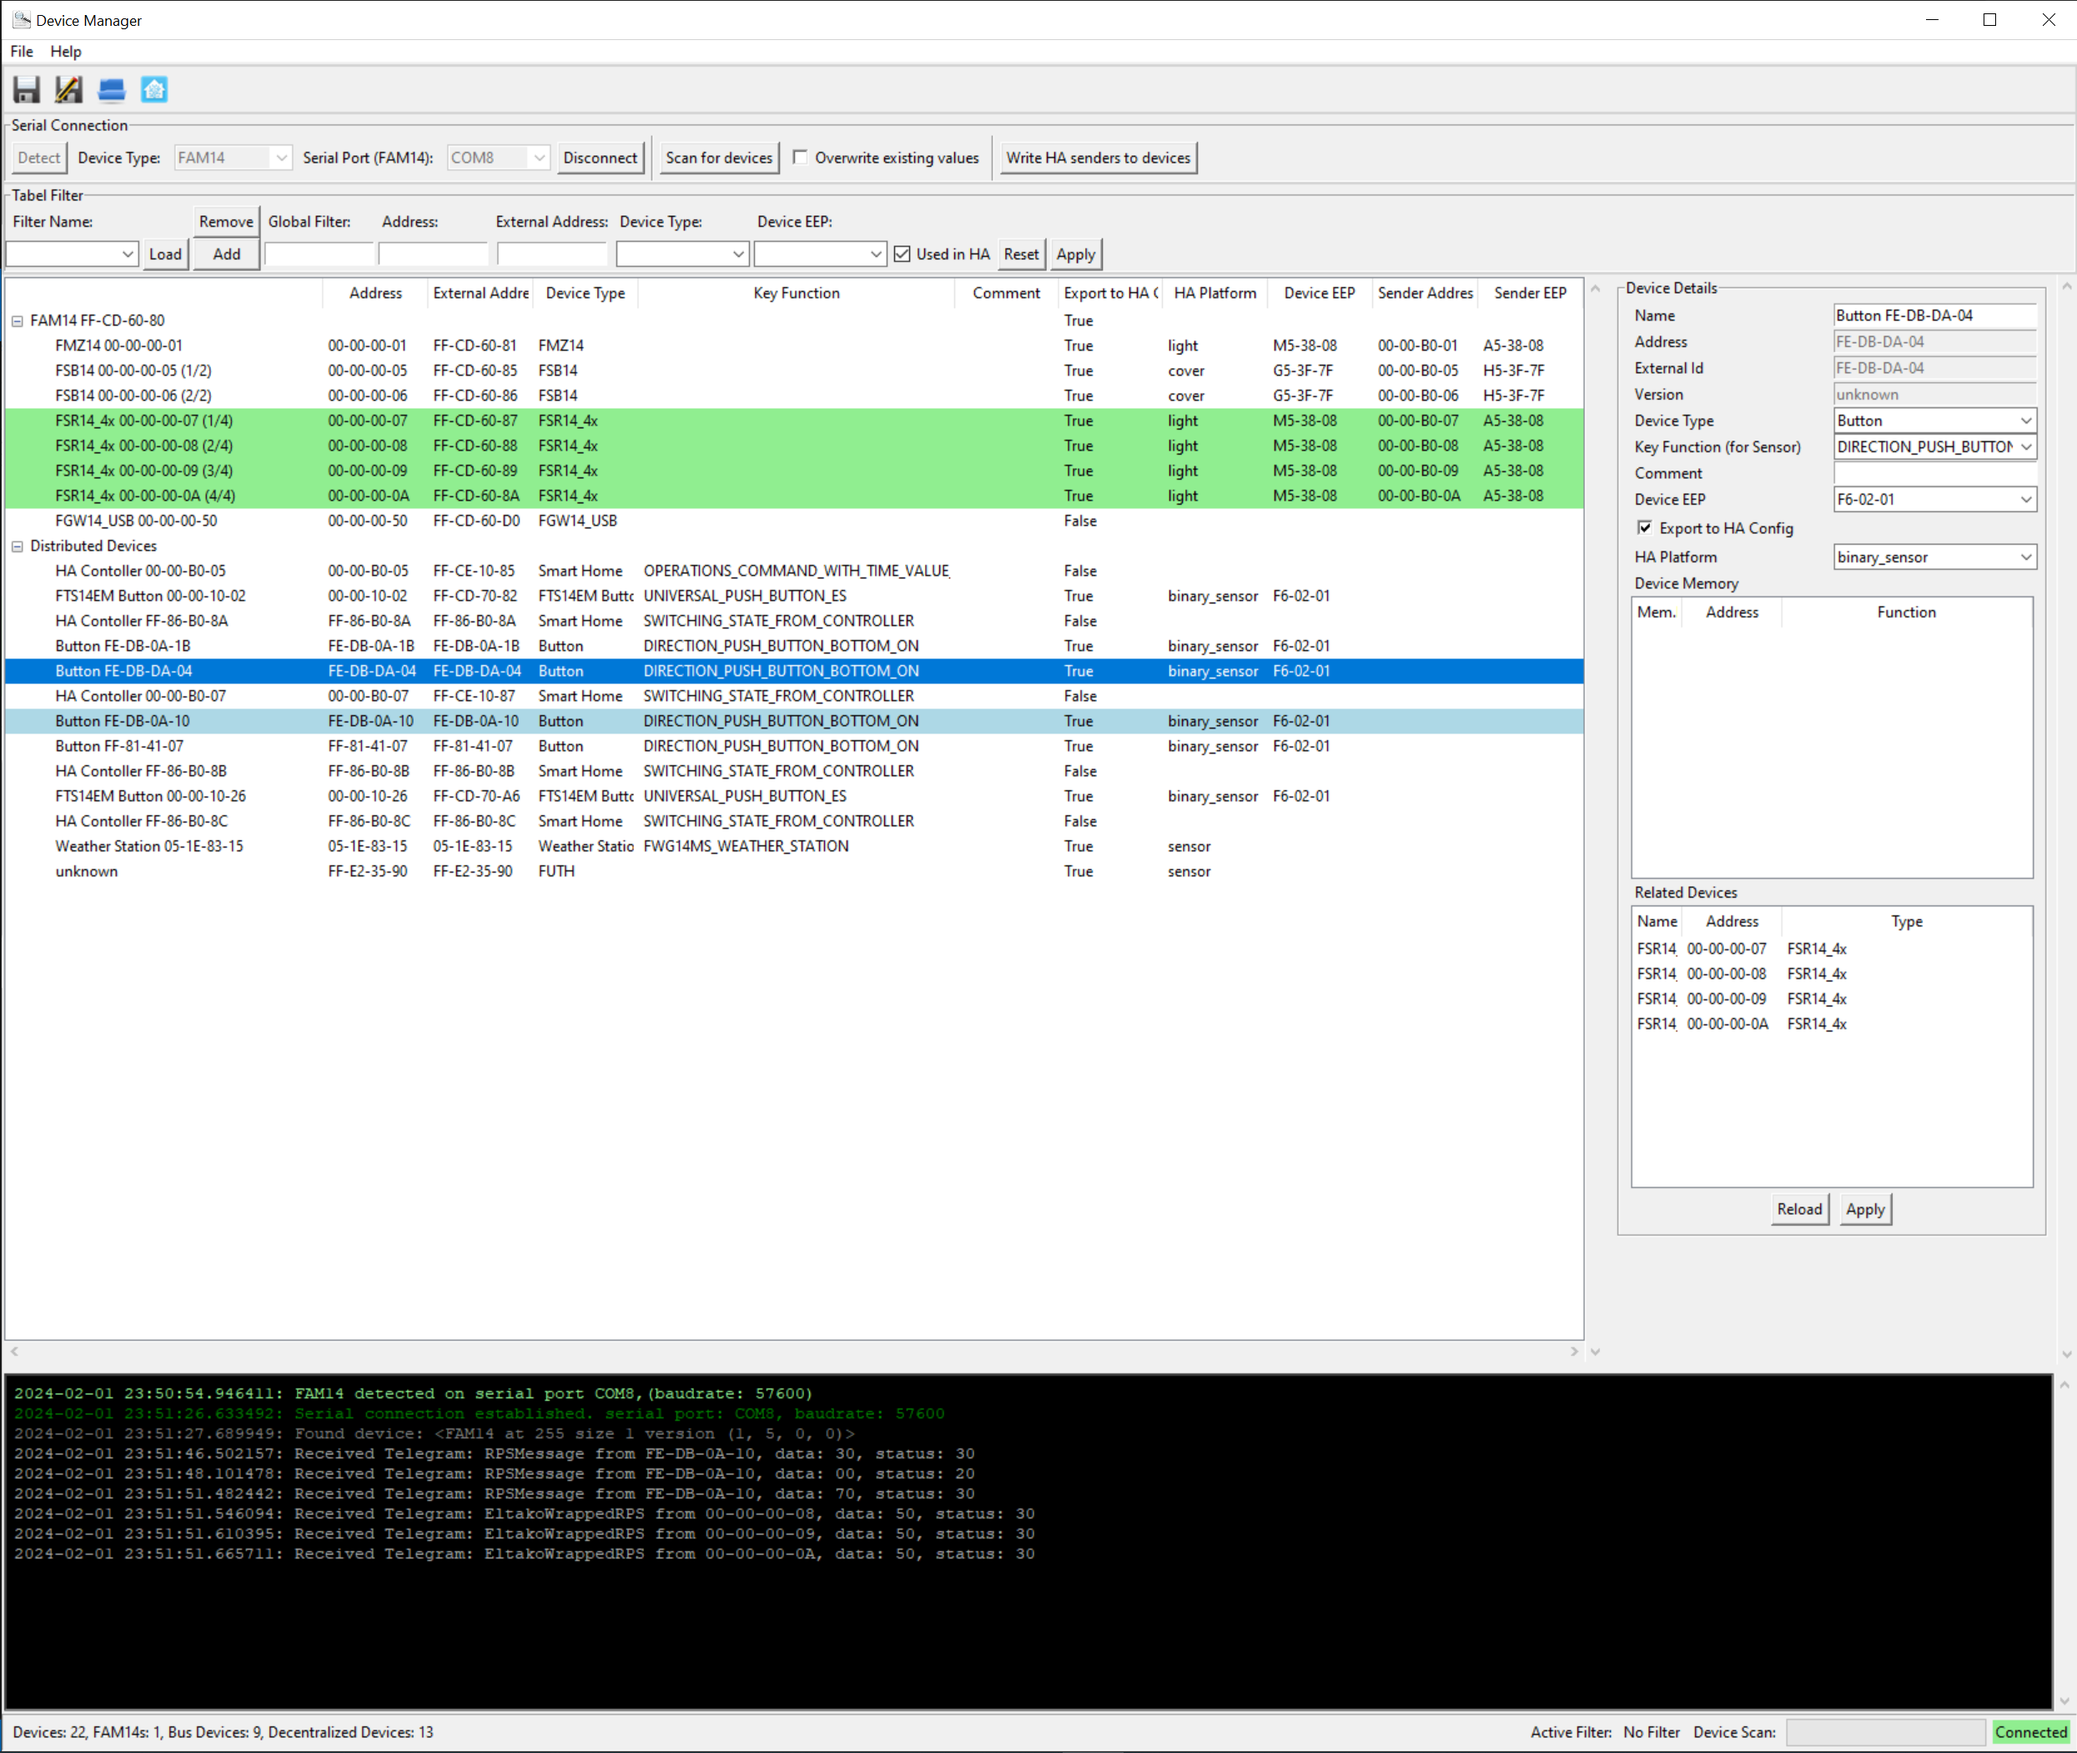
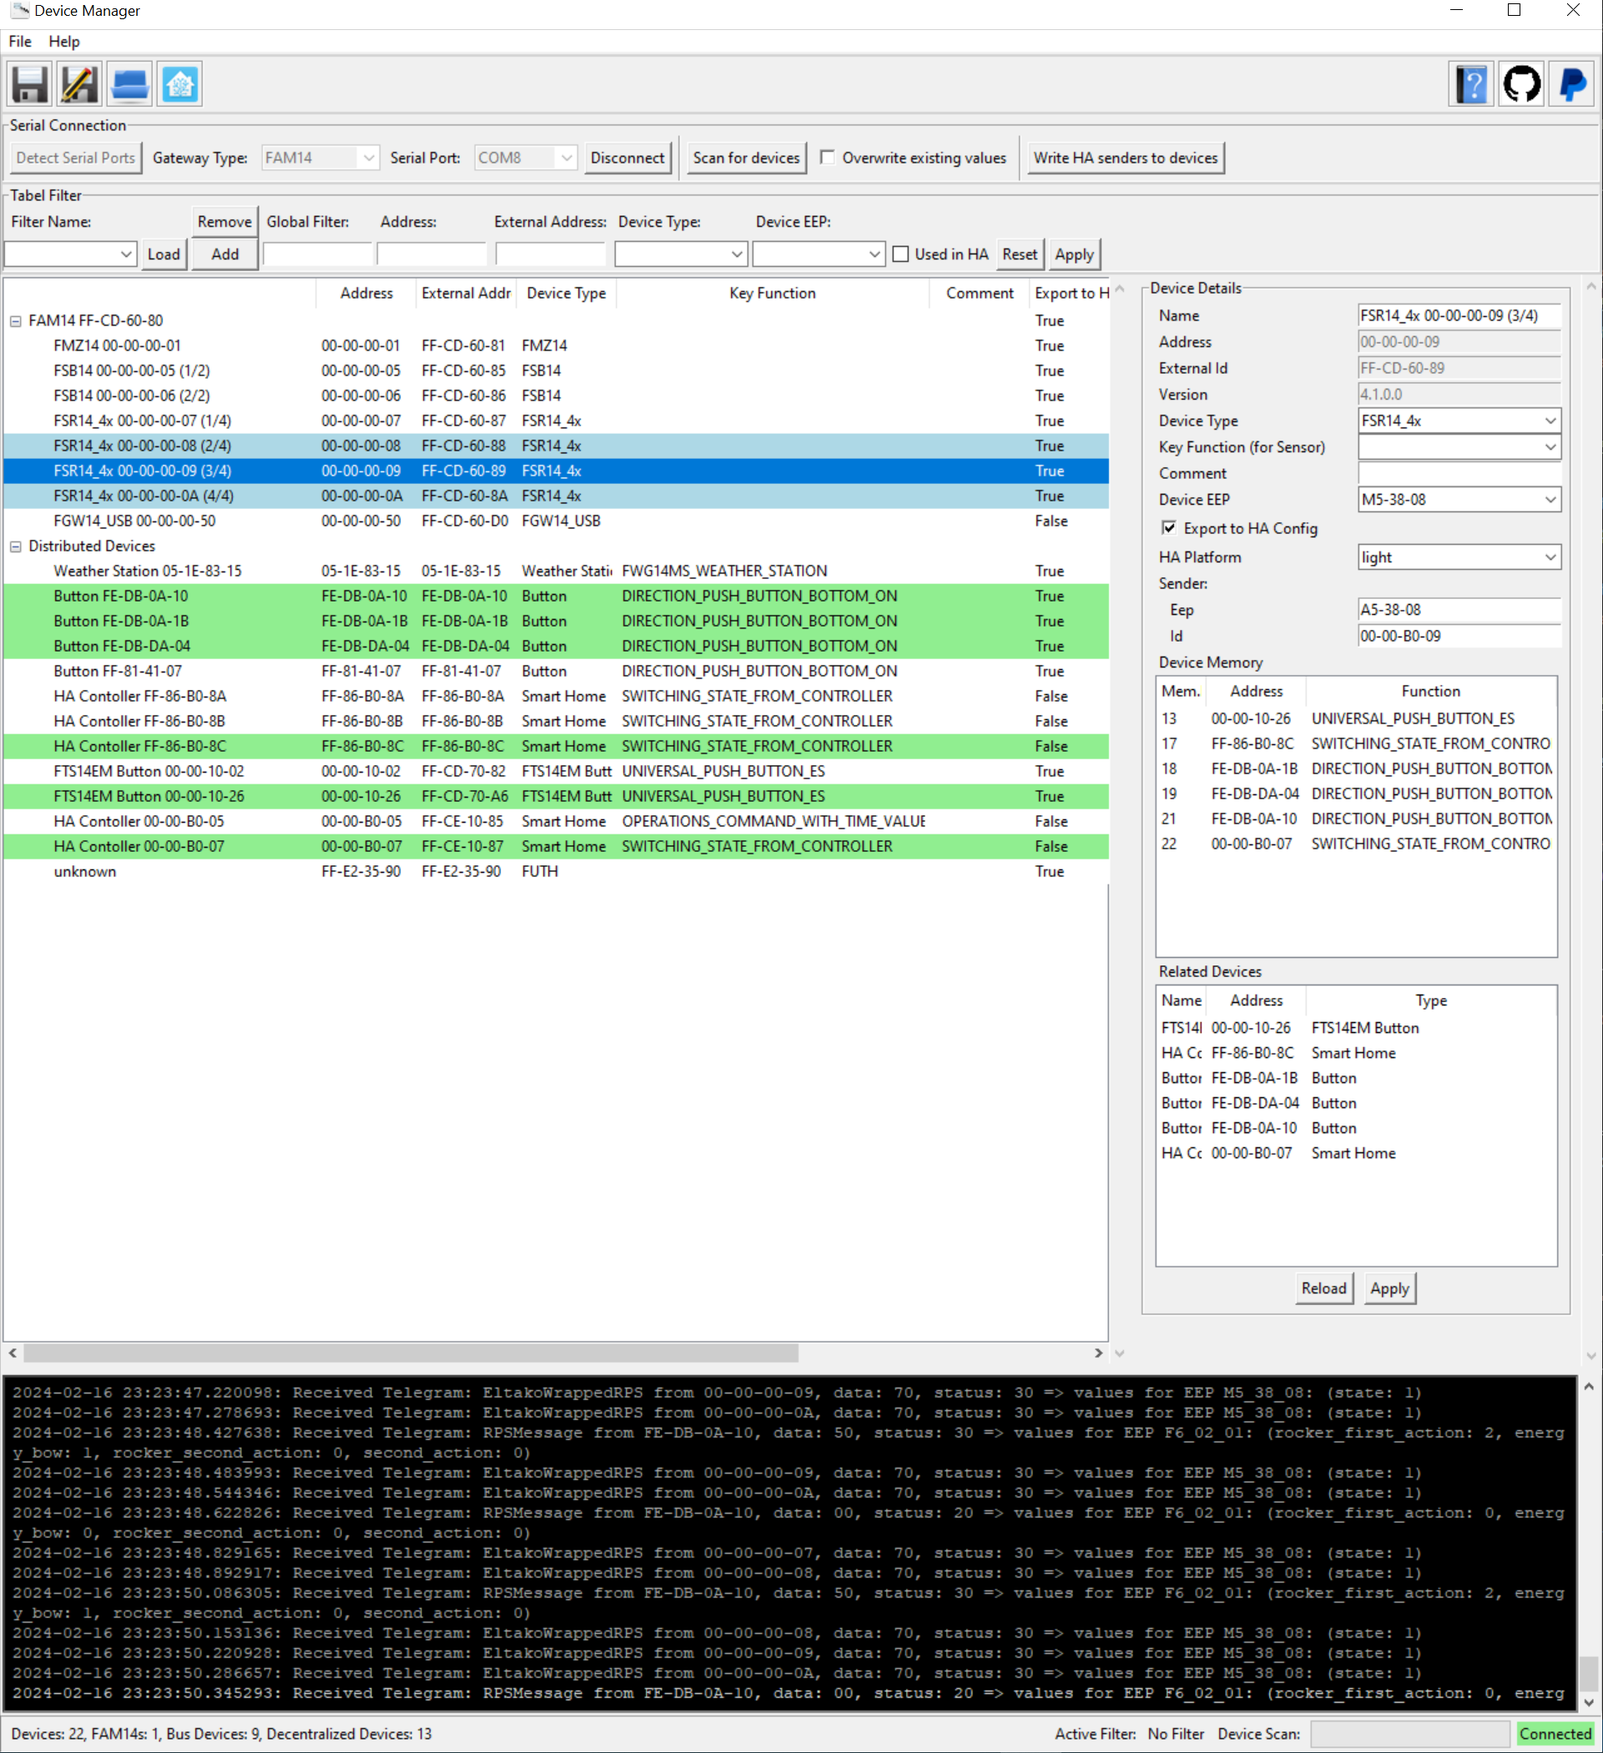
error handling added to serial communication

Changed region(s): [[0.0, 0.0, 1.0, 1.0], [0.6559, 0.0619, 0.7496, 0.0928]]

diff --git a/eo_man/view/serial_communication_bar.py b/eo_man/view/serial_communication_bar.py
@@ -2,6 +2,9 @@ import tkinter as tk
 from tkinter import *
 from tkinter import ttk
 from idlelib.tooltip import Hovertip
+import threading
+
+from eo_man import LOGGER
 
 from ..controller.app_bus import AppBus, AppBusEventType
 from ..controller.serial_controller import SerialController
@@ -18,19 +21,21 @@ class SerialConnectionBar():
         f = LabelFrame(main, text="Serial Connection", bd=1)#, relief=SUNKEN)
         f.grid(row=row, column=0, columnspan=1, sticky=W+E+N+S, pady=(0,2), padx=2)
 
-        self.b_detect = Button(f, text="Detect")
+        self.b_detect = Button(f, text="Detect Serial Ports")
         self.b_detect.pack(side=tk.LEFT, padx=(5, 5), pady=5)
         self.b_detect.config(command=self.detect_serial_ports_command)
+        Hovertip(self.b_detect,"Serial port detection is sometime unstable. Please try again if device was not detected.",300)
 
-        l = Label(f, text="Device Type: ")
+        l = Label(f, text="Gateway Type: ")
         l.pack(side=tk.LEFT, padx=(0, 5), pady=5)
 
         self.cb_device_type = ttk.Combobox(f, state="readonly", width="12") 
         self.cb_device_type.pack(side=tk.LEFT, padx=(0, 5), pady=5)
         self.cb_device_type['values'] = ['FAM14', 'FGW14-USB', 'FAM-USB']
         self.cb_device_type.set(self.cb_device_type['values'][0])
+        self.cb_device_type.bind('<<ComboboxSelected>>', self.on_device_type_changed)
 
-        l = Label(f, text="Serial Port (FAM14): ")
+        l = Label(f, text="Serial Port: ")
         l.pack(side=tk.LEFT, padx=(0, 5), pady=5)
 
         self.cb_serial_ports = ttk.Combobox(f, state="readonly", width="10") 
@@ -61,17 +66,28 @@ class SerialConnectionBar():
         self.app_bus.add_event_handler(AppBusEventType.WRITE_SENDER_IDS_TO_DEVICES_STATUS, self.device_scan_status_handler)
         self.app_bus.add_event_handler(AppBusEventType.WINDOW_LOADED, self.on_window_loaded)
         
+
+    def on_device_type_changed(self, event):
+        self.cb_serial_ports['values'] = []
+        self.cb_serial_ports.set('')
+
+        self.detect_serial_ports_command()
+
+
     def write_ha_senders_to_devices(self):
         sender_list = {}
         for dev in self.data_manager.devices.values():
             sender_list[dev.external_id] = dev.additional_fields
         self.serial_cntr.write_sender_id_to_devices(45056, sender_list)
         
+
     def on_window_loaded(self, data):
         self.detect_serial_ports_command()
 
+
     def scan_for_devices(self):
         self.serial_cntr.scan_for_devices( self.overwrite.get() )
+
 
     def device_scan_status_handler(self, status:str):
         if status == 'FINISHED':
@@ -86,17 +102,27 @@ class SerialConnectionBar():
             self.main.config(cursor="watch")    #set cursor for waiting
             self.b_sync_ha_sender.config(state=DISABLED)
 
-    def toggle_serial_connection_command(self):
-        if not self.serial_cntr.is_serial_connection_active():
-            self.b_detect.config(state=DISABLED)
-            self.b_connect.config(state=DISABLED)
-            self.b_scan.config(state=DISABLED)
-            self.serial_cntr.establish_serial_connection(self.cb_serial_ports.get(), self.cb_device_type.get())
-        else:
-            self.serial_cntr.stop_serial_connection()
 
-    def is_connected_handler(self, data:dict):
+    def toggle_serial_connection_command(self):
+        try:
+            if not self.serial_cntr.is_serial_connection_active():
+                self.b_detect.config(state=DISABLED)
+                self.b_connect.config(state=DISABLED)
+                self.b_scan.config(state=DISABLED)
+                self.serial_cntr.establish_serial_connection(self.cb_serial_ports.get(), self.cb_device_type.get())
+            else:
+                self.serial_cntr.stop_serial_connection()
+        except:
+            # reset buttons
+            self.is_connected_handler(data={'connected': self.serial_cntr.is_serial_connection_active()})
+            LOGGER.exception("Was not able to detect serial ports.")
+
+
+    def is_connected_handler(self, data:dict, skipp_serial_port_detection:bool=False):
         status = data.get('connected')
+        
+        self.main.config(cursor="")
+
         if status:
             self.b_connect.config(text="Disconnect", state=NORMAL)
             self.cb_serial_ports.config(state=DISABLED)
@@ -117,14 +143,28 @@ class SerialConnectionBar():
             self.cb_device_type.config(state="readonly")
             self.b_scan.config(state=DISABLED)
             self.b_sync_ha_sender.config(state=DISABLED)
-            self.detect_serial_ports_command()
+            if not skipp_serial_port_detection: self.detect_serial_ports_command()
+
 
     def detect_serial_ports_command(self):
-        serial_ports = self.serial_cntr.get_serial_ports(self.cb_device_type.get())
-        self.cb_serial_ports['values'] = serial_ports
-        if len(self.cb_serial_ports['values']) > 0:
-            self.cb_serial_ports.set(self.cb_serial_ports['values'][0])
-            self.b_connect.config(state=NORMAL)
-        else:
-            self.b_connect.config(state=DISABLED)
-            self.cb_serial_ports.set('')
+
+        def detect_serial_ports():
+            try:
+                self.main.config(cursor="watch")    #set cursor for waiting
+                self.b_detect.config(state=DISABLED)
+                serial_ports = self.serial_cntr.get_serial_ports(self.cb_device_type.get())
+                self.cb_serial_ports['values'] = serial_ports
+                if len(self.cb_serial_ports['values']) > 0:
+                    self.cb_serial_ports.set(self.cb_serial_ports['values'][0])
+                    self.b_connect.config(state=NORMAL)
+                else:
+                    self.b_connect.config(state=DISABLED)
+                    self.cb_serial_ports.set('')
+            except:
+                # reset buttons
+                LOGGER.exception("Was not able to detect serial ports.")
+            else:
+                self.is_connected_handler(data={'connected': False}, skipp_serial_port_detection=True)
+
+        t = threading.Thread(target=detect_serial_ports)
+        t.start()

diff --git a/eo_man/controller/serial_controller.py b/eo_man/controller/serial_controller.py
@@ -188,7 +188,7 @@ class SerialController():
         else:
             return BusObject(response, bus=self._serial_bus)
 
-    async def enumerate_bus(self) -> Iterator[BusObject]:
+    async def enumerate_bus(self) -> Iterator[BusObject]: # type: ignore
         """Search the bus for devices, yield bus objects for every match"""
 
         for i in range(1, 256):

diff --git a/changes.md b/changes.md
@@ -1,6 +1,7 @@
 # Change Log
 
-## v0.1.6 
+## v0.1.6 Sensor Values are evaluated
+* Sensor values are displayed in command line
 * Sponsor button added
 * Docs updated with system requirements
 * Added links to documentation
@@ -8,6 +9,7 @@
 * About window improved
 * Icons to menu added
 * Unmapped devices are moved to FAM14 after connection.
+* Error handling added for serial connection.
 
 ## v0.1.5 Refactoring + Basic Features (GOAL: Stability)
 * Improved imports incl. homeassistant mock
